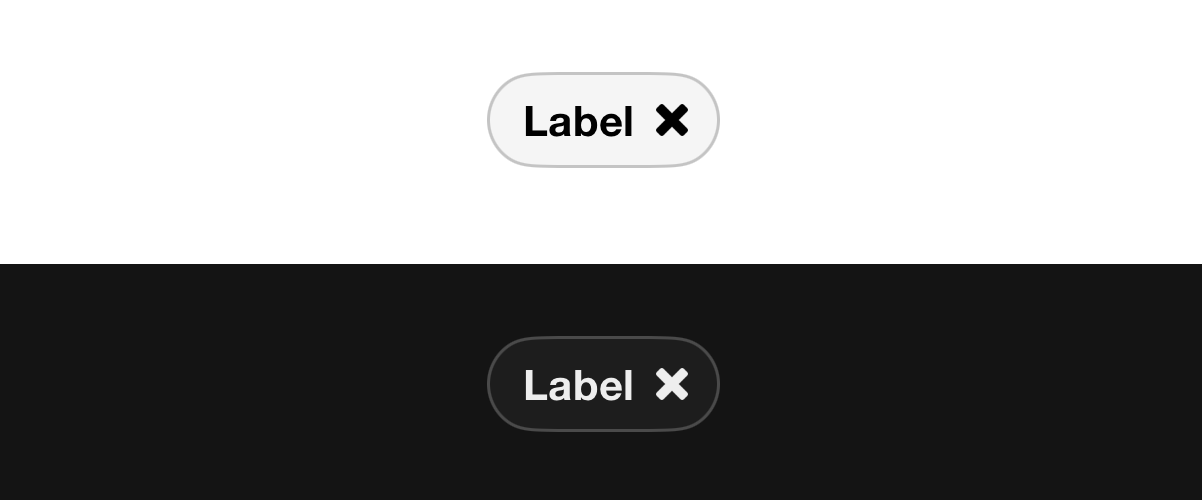
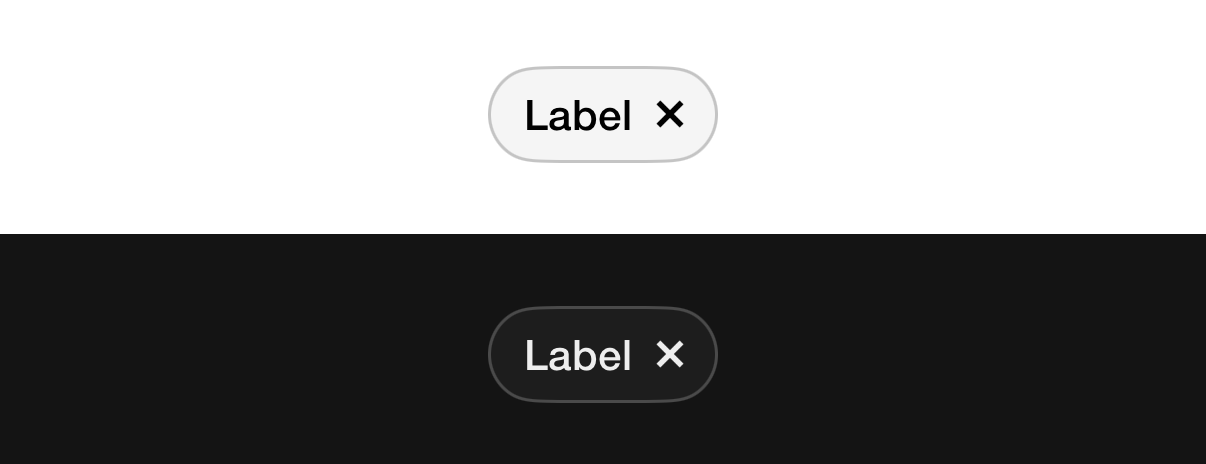
refactor: update `input tag` component to version 1.2 (#1450) (#1512)
Change typography of text input tag component

Closes #1450

diff --git a/OUDS/Core/ThemesContract/Sources/TokenatorConstants+Logs.swift b/OUDS/Core/ThemesContract/Sources/TokenatorConstants+Logs.swift
@@ -43,7 +43,8 @@ extension OUDSVersions {
         versionsLog += "- Expand Link: \(Self.componentExpandLinkVersion)\n"
         versionsLog += "- Filter Chip: \(Self.componentFilterChipVersion)\n"
         versionsLog += "- Filter Chip Expand: \(Self.componentFilterChipExpandVersion)\n"
-        versionsLog += "- Inline alert: \(Self.componentInlineAlertVersion)\n"
+        versionsLog += "- Inline Alert: \(Self.componentInlineAlertVersion)\n"
+        versionsLog += "- Input Tag: \(Self.componentInputTagVersion)\n"
         versionsLog += "- Link: \(Self.componentLinkVersion)\n"
         versionsLog += "- Tab Bar: \(Self.componentTabBarVersion)\n"
         versionsLog += "- ToolBar Top: \(Self.componentToolBarTopVersion)\n"
@@ -52,7 +53,7 @@ extension OUDSVersions {
         versionsLog += "- Phone Number Input: \(Self.componentPhoneNumberInputVersion)\n"
         versionsLog += "- Pin Code Input: \(Self.componentPinCodeInputVersion)\n"
         versionsLog += "- Quantity Input: \(Self.componentQuantityInputVersion)\n"
-        versionsLog += "- Radio button: \(Self.componentRadioButtonVersion)\n"
+        versionsLog += "- Radio Button: \(Self.componentRadioButtonVersion)\n"
         versionsLog += "- Select Input: \(Self.componentSelectInputVersion)\n"
         versionsLog += "- Skeleton: \(Self.componentSkeletonVersion)\n"
         versionsLog += "- Suggestion Chip: \(Self.componentSuggestionChipVersion)\n"

diff --git a/OUDS/Core/Components/Sources/Indicators/Tag/Internal/InputTag/InputTagContent.swift b/OUDS/Core/Components/Sources/Indicators/Tag/Internal/InputTag/InputTagContent.swift
@@ -24,7 +24,7 @@ struct InputTagContent: View {
     var body: some View {
         HStack(alignment: .center, spacing: theme.tag.spaceColumnGapDefault) {
             Text(label)
-                .labelStrongMedium(theme)
+                .labelModerateMedium(theme)
             ScaledIcon(icon: Image(decorative: "ic_tag_close", bundle: theme.resourcesBundle).renderingMode(.template),
                        size: theme.tag.sizeAssetDefault)
                 .aspectRatio(contentMode: .fit)

diff --git a/OUDS/Core/ThemesContract/Tests/OUDSVersionsTests.swift b/OUDS/Core/ThemesContract/Tests/OUDSVersionsTests.swift
@@ -161,6 +161,10 @@ struct OUDSVersionsTests {
         TestsUtils.assertMatches(OUDSVersions.componentTagVersion, regexp: Self.oudsVersionsFormat)
     }
 
+    @Test func componentInputTagVersionMustBeConform() throws {
+        TestsUtils.assertMatches(OUDSVersions.componentInputTagVersion, regexp: Self.oudsVersionsFormat)
+    }
+
     // MARK: - Tests - Component versions - Layout
 
     @Test func componentDividerVersionMustBeConform() throws {

diff --git a/OUDS/Core/ThemesContract/Sources/TokenatorConstants.swift b/OUDS/Core/ThemesContract/Sources/TokenatorConstants.swift
@@ -111,6 +111,8 @@
     public static let componentSkeletonVersion = "1.0.0"
     /// Version of the Figma specifications for the component tag (1.4.0)
     public static let componentTagVersion = "1.4.0" // NOTE: #1473 - v1.5.0 not implemented yet
+    /// Version of the Figma specifications for the component input tag (1.2.0)
+    public static let componentInputTagVersion = "1.2.0"
 
     // MARK: - Components versions - Visual assets
 

diff --git a/OUDS/Core/Components/Sources/Indicators/Tag/OUDSInputTag.swift b/OUDS/Core/Components/Sources/Indicators/Tag/OUDSInputTag.swift
@@ -62,7 +62,7 @@ import SwiftUI
 ///
 /// ![An input tag component in light and dark modes with Wireframe theme](component_inputTag_Wireframe)
 ///
-/// - Version: 1.4.0 (Figma component design version)
+/// - Version: 1.2.0 (Figma component design version)
 /// - Since: 0.21.0
 @available(iOS 15, macOS 13, visionOS 1, watchOS 11, tvOS 16, *)
 public struct OUDSInputTag: View {

diff --git a/CHANGELOG.md b/CHANGELOG.md
@@ -8,6 +8,7 @@ and this project adheres to [Semantic Versioning](https://semver.org/spec/v2.0.0
 
 ### Changed
 
+- `input tag` component with label medium moderate typography for text (Orange-OpenSource/ouds-ios#1450)
 - `control item` component token renamed `spacePaddingBlockDensityCompactTopAlignmentTopTextContainer`
 
 ### Deprecated
